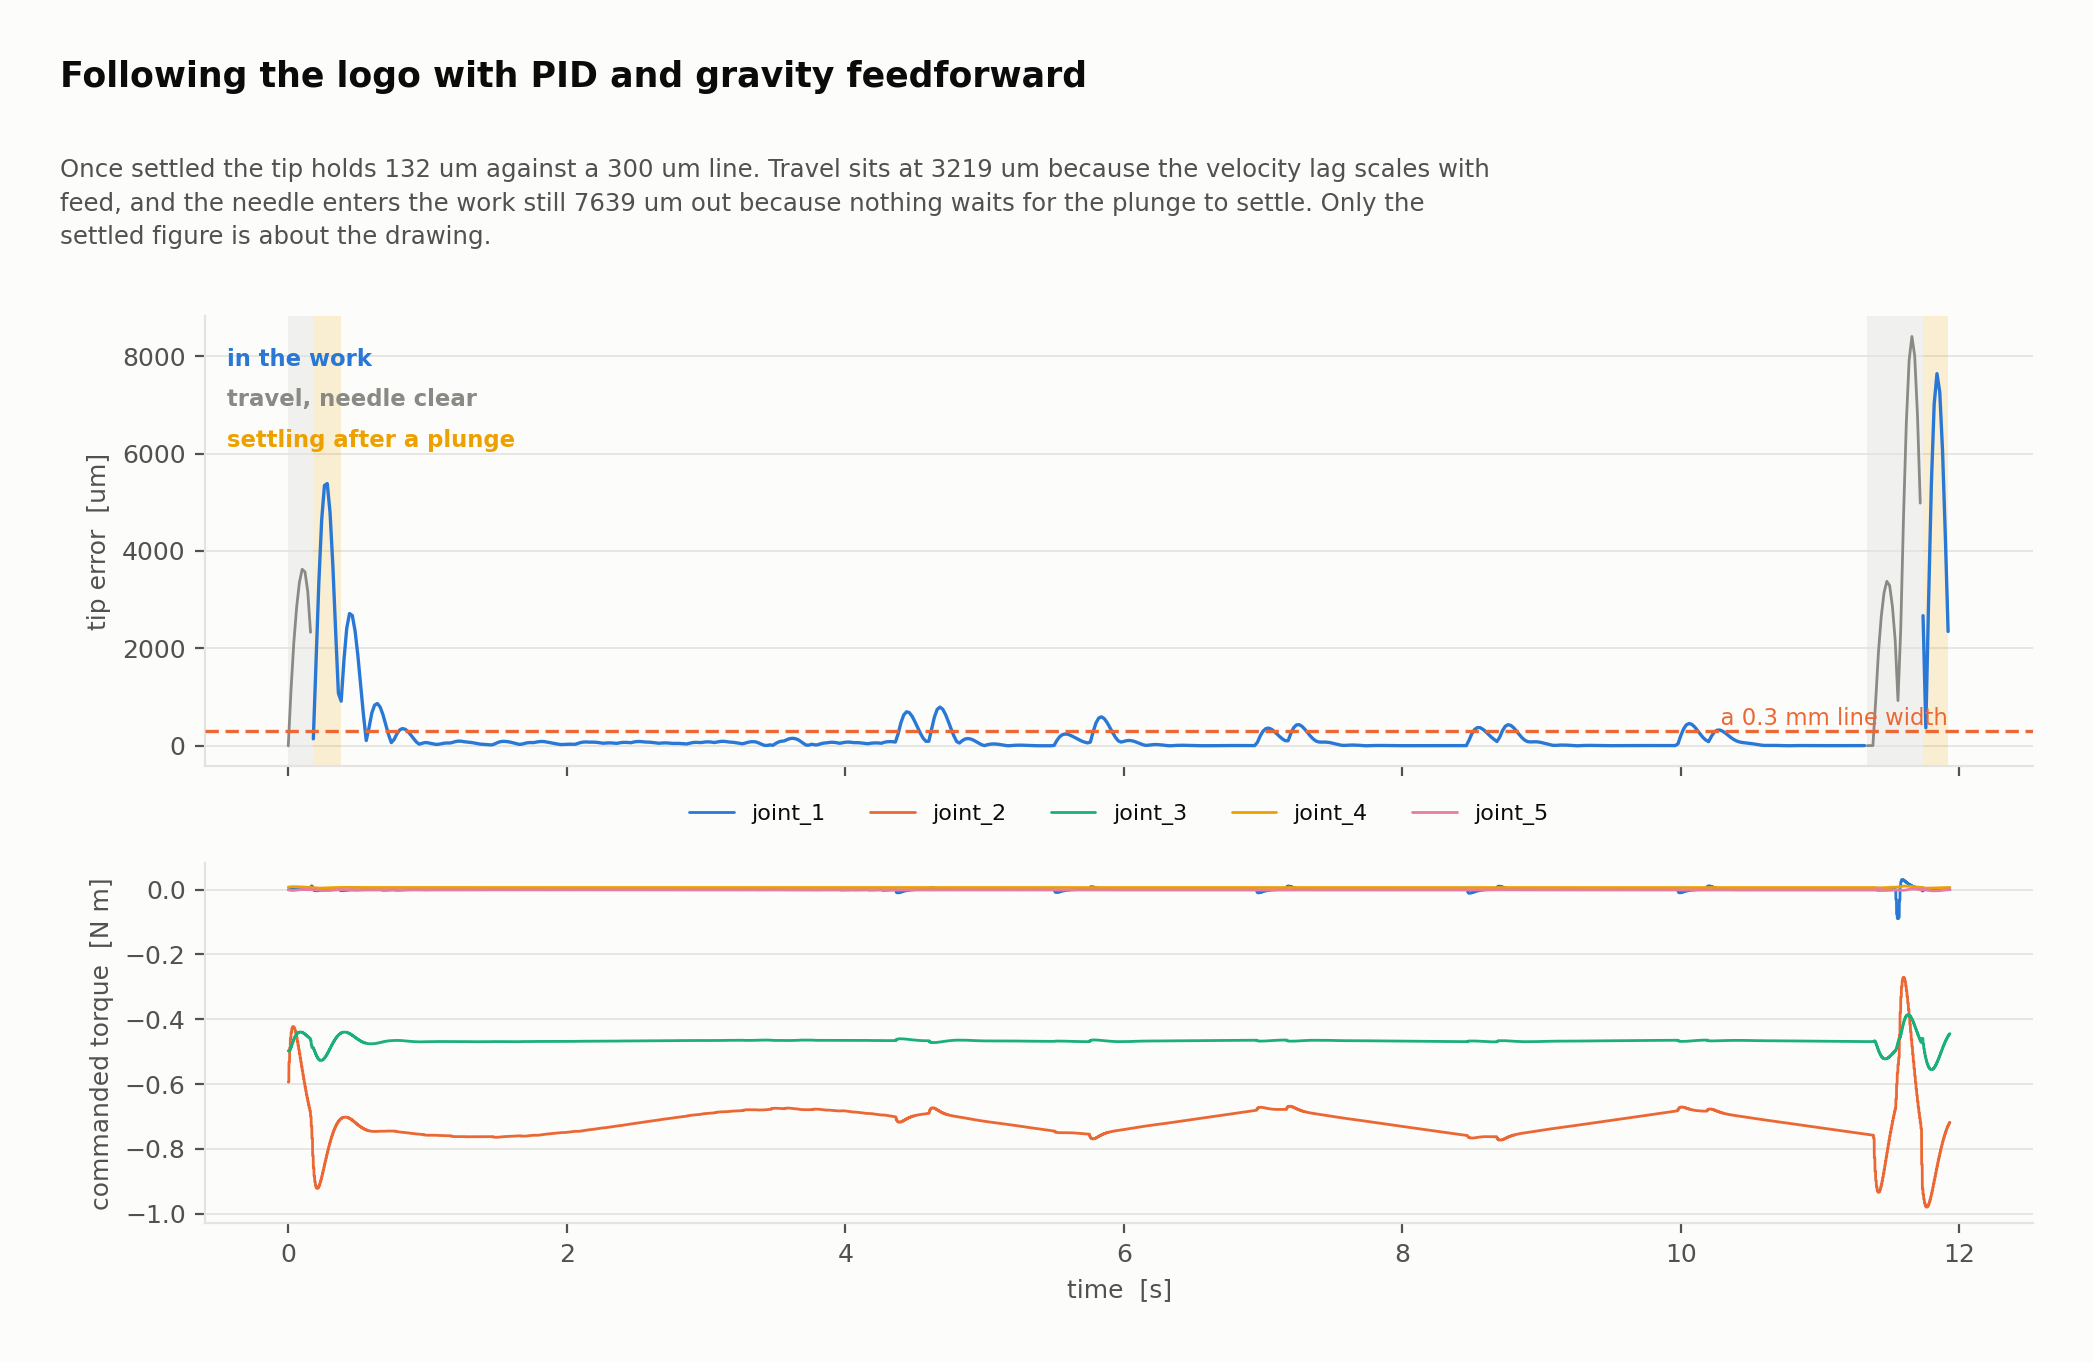
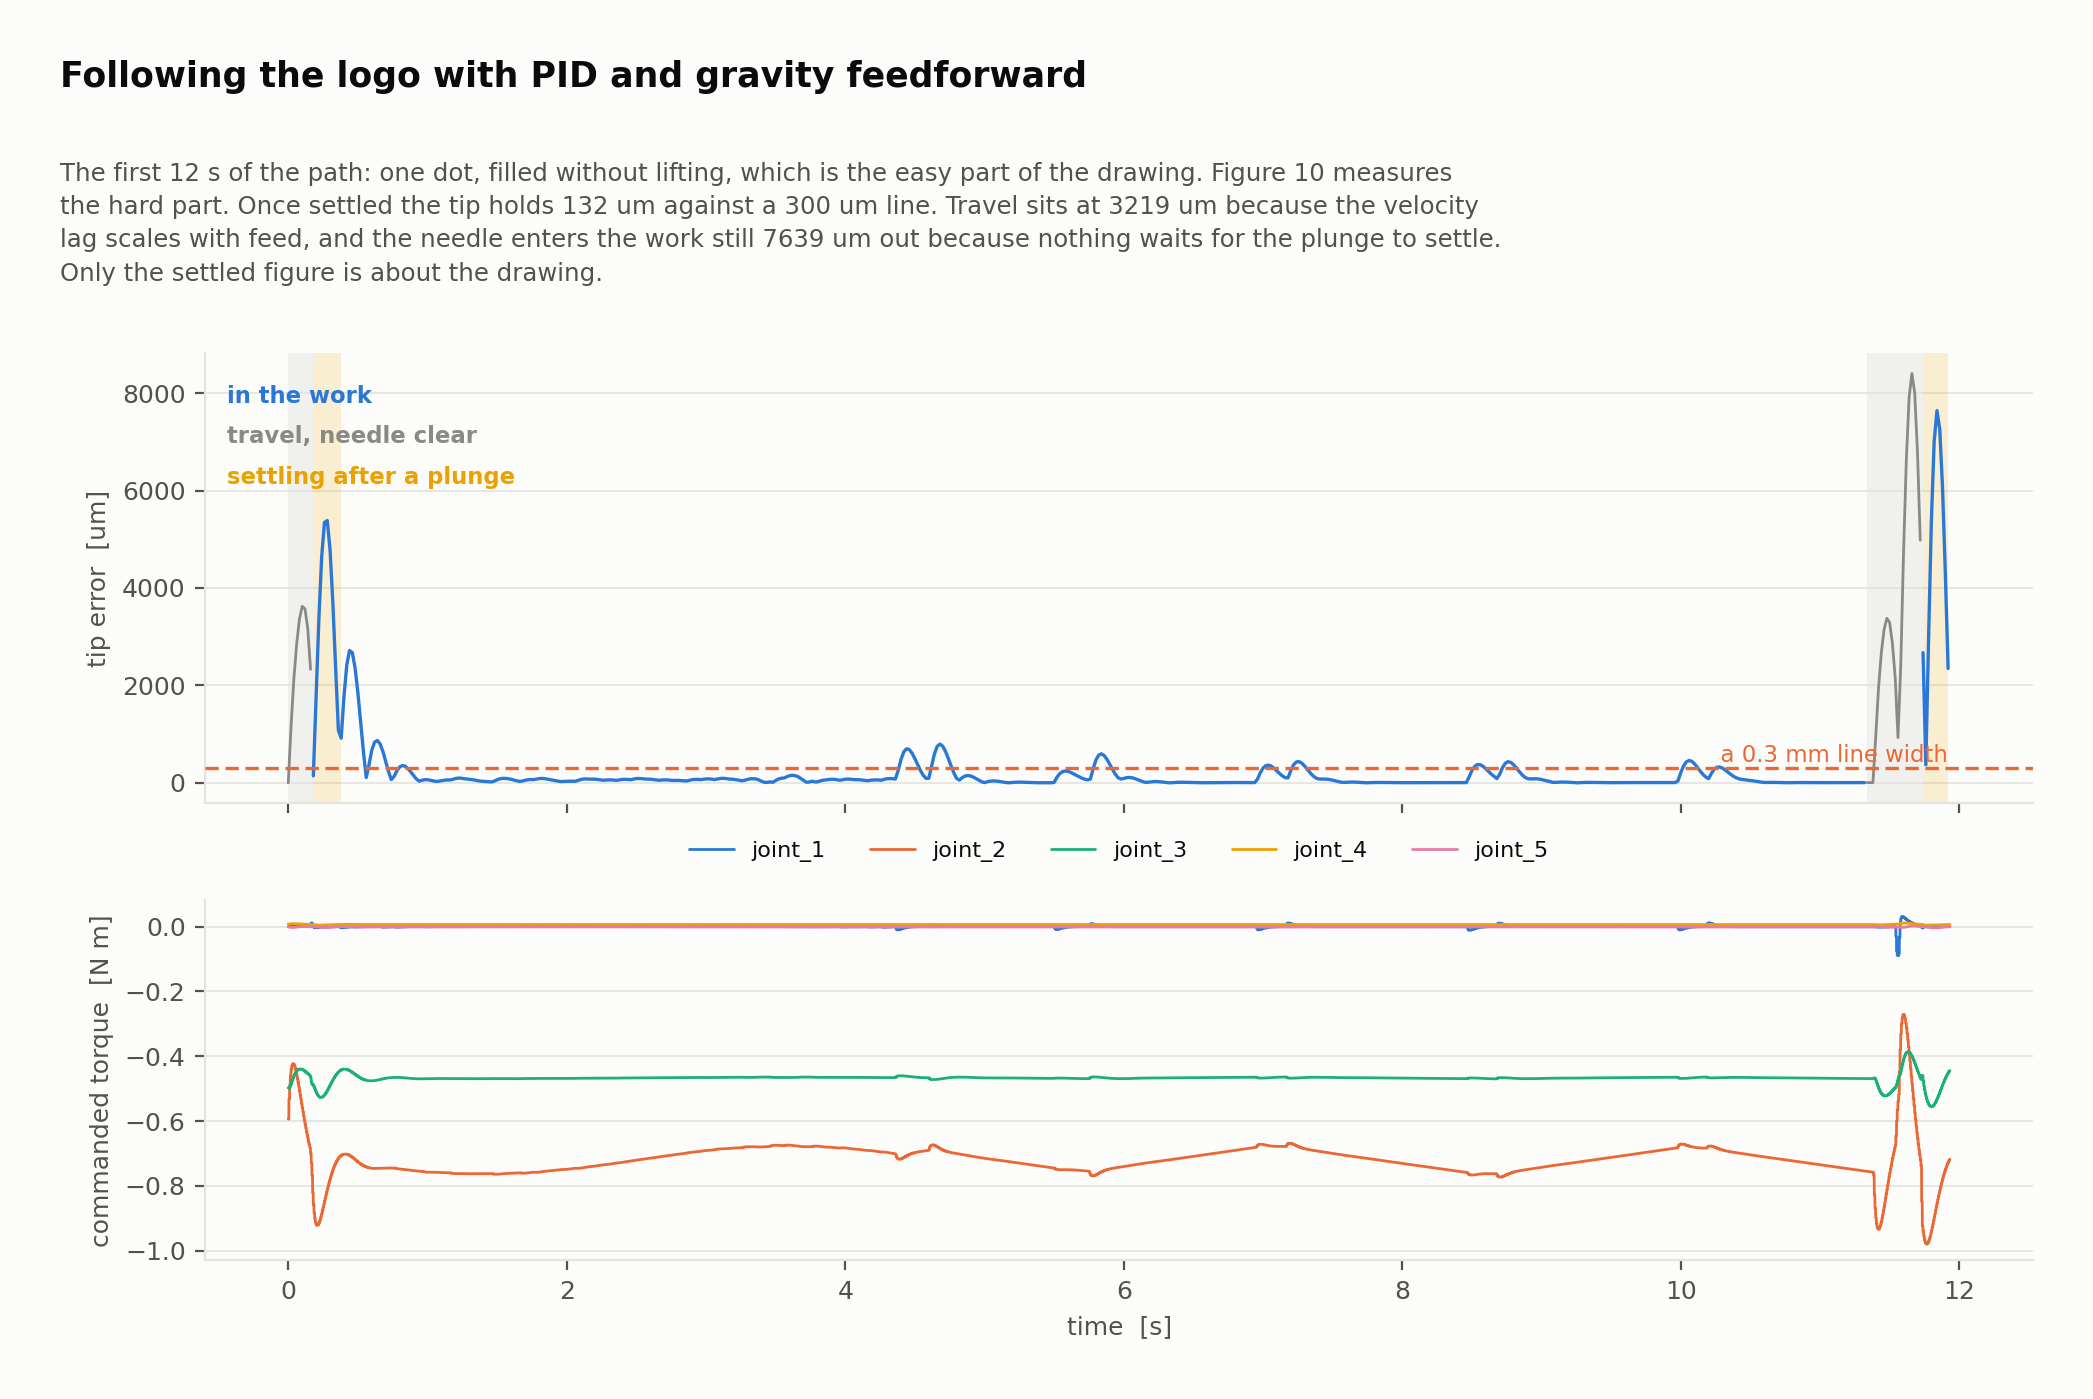
Make the recommended configuration reproducible, and remeasure it
control_final.json held the headline numbers of the notebook and no script
produced it. Section 11 promises that no figure in the document is written
by hand, so an orphaned data file is the one thing that must not exist.
control_study.py now writes it, over the same window as everything else.

Remeasured on the hard stretch, the recommended configuration gives 206 um
settled and 2335 um worst, against the 22.5 um and 272 um this document
used to quote. The old numbers are not wrong: they are the steady-state
figures, measured on continuous marking. They are just not what the logo
asks for.

wn=40 with gravity and velocity feedforward is still the recommendation.
Its mean is 7% worse than gravity alone, inside the noise of a 12 s window,
but its worst case is better and peak torque drops 13%, 2.33 to 2.02 Nm.

diff --git a/docs/dev/scripts/control_study.py b/docs/dev/scripts/control_study.py
@@ -171,6 +171,21 @@ def main():
         sweep[wn] = stats(e, tau, ts, wn)
         show(f"wn={wn:.0f}", sweep[wn])
 
+    # The recommended configuration, measured the same way as everything else.
+    # These used to live in a hand-written control_final.json that no script
+    # produced, which is the one thing section 11 of the notebook promises never
+    # happens.
+    print(hdr, flush=True)
+    final = {}
+    for wn, mode in ((20.0, "pid+g+v"), (40.0, "pid+g"), (40.0, "pid+g+v")):
+        e, tau, ts = run(model, chain, tt, Qp, QD, QDD, wn=wn, mode=mode)
+        key = f"wn{wn:.0f}_{mode}"
+        final[key] = stats(e, tau, ts, wn)
+        show(key, final[key])
+    (OUT / "control_final.json").write_text(json.dumps(
+        {"configs": final, "window_s": float(tt[-1]),
+         "window_start_s": float(t[start]), "window_entries": entries}, indent=2))
+
     (OUT / "control_study.json").write_text(json.dumps(
         {"modes": results, "sweep": {str(k): v for k, v in sweep.items()},
          "window_s": float(tt[-1]), "window_start_s": float(t[start]),

diff --git a/docs/dev/scripts/figures.py b/docs/dev/scripts/figures.py
@@ -344,6 +344,8 @@ def fig_tracking():
     axes[1].legend(ncol=5, fontsize=8, loc="upper center", bbox_to_anchor=(0.5, 1.22))
     grid_on(axes[1], "y")
     finish(fig, "09_tracking.png", "Following the logo with PID and gravity feedforward",
+           "The first 12 s of the path: one dot, filled without lifting, which is the easy "
+           "part of the drawing. Figure 10 measures the hard part. "
            f"Once settled the tip holds {err[settled].mean():.0f} um against a 300 um line. "
            f"Travel sits at {err[~down].mean():.0f} um because the velocity lag scales with feed, "
            f"and the needle enters the work still {err[down].max():.0f} um out because nothing "
